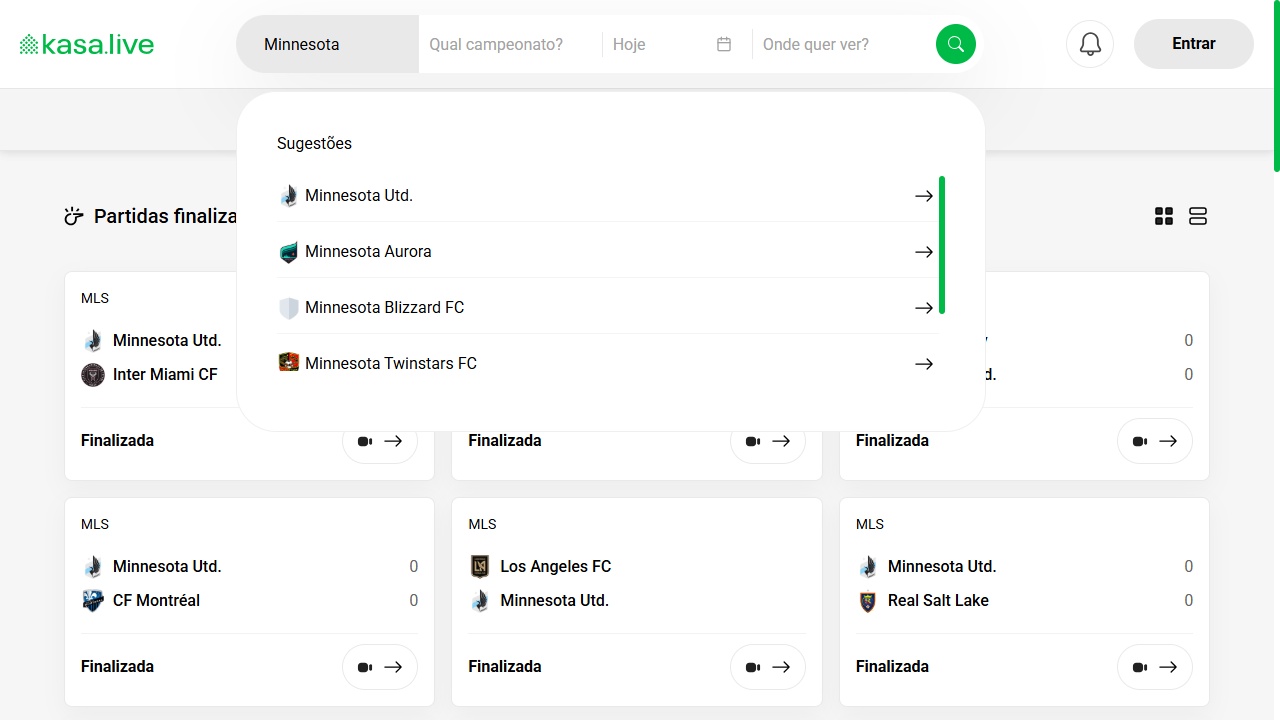
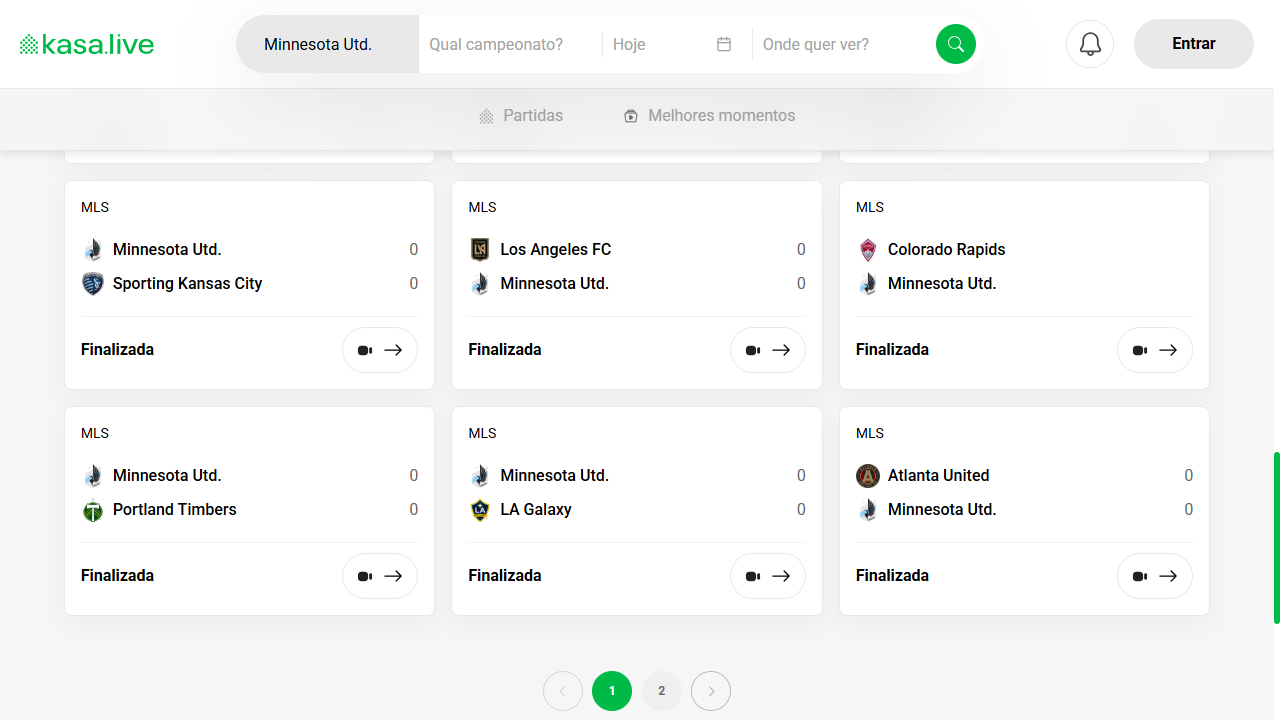
ajustes no filtro de times pra evitar falsos positivos

diff --git a/tests/filtro-time.spec.ts b/tests/filtro-time.spec.ts
@@ -1,39 +1,63 @@
 import { test, expect } from '@playwright/test';
 
-test('Busca partidas filtrando por time', async ({ page }) => {
+
+test('Busca partidas filtrando por time com paginação', async ({ page }) => {
+  const timeBusca = 'Minnesota Utd.';
 
   await page.goto('https://www.kasa.live/');
 
   const campo = page.getByPlaceholder('Qual time?');
-
   await campo.click();
-  await campo.fill('Minnesota Utd.');
-
-  await page.getByText('Minnesota Utd.').first().click();
-
+  await campo.fill(timeBusca);
   await campo.press('Enter');
 
+  // Fecha popover clicando fora
+  await page.mouse.click(0, 0);
   await page.waitForLoadState('networkidle');
 
-  const resultados = page.locator('[data-cy="match-card"]');
-  const total = await resultados.count();
+  let paginaAtual = 1;
+  let temProxima = true;
 
-  if (total === 0) {
+  while (temProxima) {
+    console.log(`✅ Checando página ${paginaAtual}...`);
 
-    console.log('Nenhuma partida encontrada.');
+    // Localiza todos os cards na página
+    const cards = page.locator('.css-7mca6u'); // seletor de container de card
+    const totalCards = await cards.count();
 
-  } else {
-
-    for (let i = 0; i < total; i++) {
-
-      const texto = await resultados.nth(i).innerText();
-
-      expect(texto.toLowerCase()).toContain('minnesota utd.');
-
+    if (totalCards === 0) {
+      console.log('⚠ Nenhum card encontrado nesta página.');
     }
 
+    for (let i = 0; i < totalCards; i++) {
+      const card = cards.nth(i);
+      const timesNoCard = card.locator('p[title]');
+      const totalTimes = await timesNoCard.count();
+
+      let encontrouTime = false;
+      for (let j = 0; j < totalTimes; j++) {
+        const nomeTime = await timesNoCard.nth(j).innerText();
+        if (nomeTime.includes(timeBusca)) {
+          encontrouTime = true;
+          break;
+        }
+      }
+
+      // Assert: cada card precisa ter pelo menos um time correto
+      expect(encontrouTime).toBeTruthy();
+    }
+
+    // Tenta ir para a próxima página
+    const botaoProximo = page.locator('button[aria-label="próxima página"]:not([disabled])');
+    if (await botaoProximo.count() > 0) {
+      await botaoProximo.click();
+      await page.waitForLoadState('networkidle');
+      paginaAtual++;
+    } else {
+      temProxima = false; // chegou na última página
+    }
   }
 
-  await page.screenshot({ path: 'screenshots/filtro-time.png' });
-
+  await page.screenshot({ path: 'screenshots/filtro-time-paginado.png', fullPage: true });
+  await page.pause();
 });
